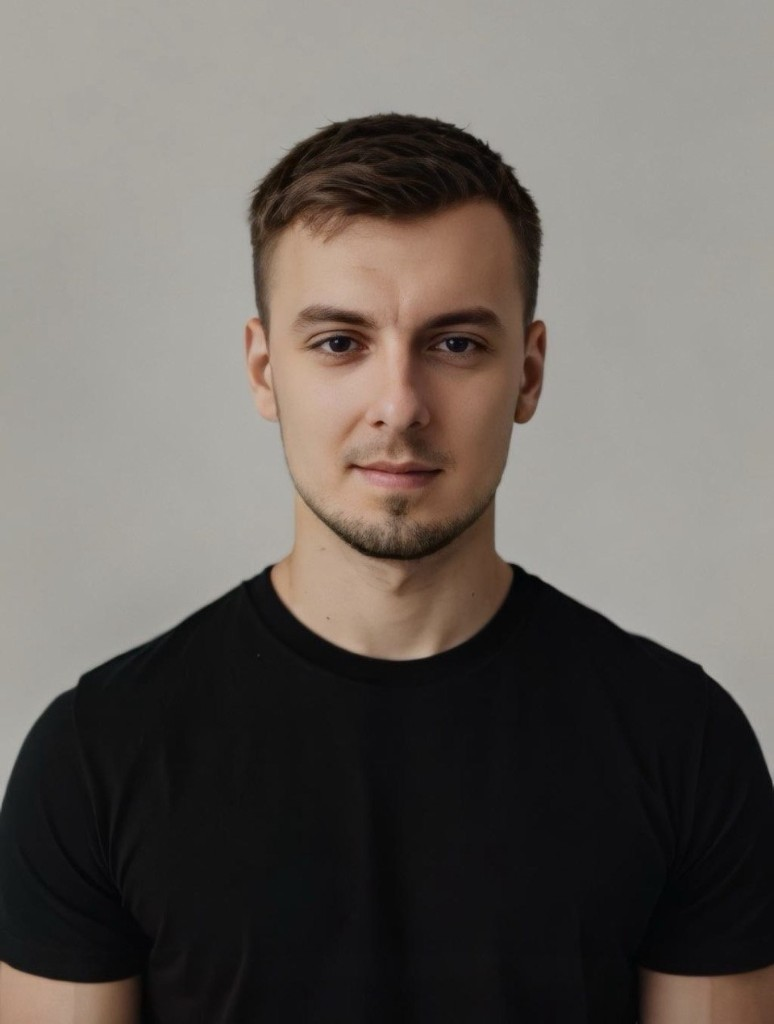
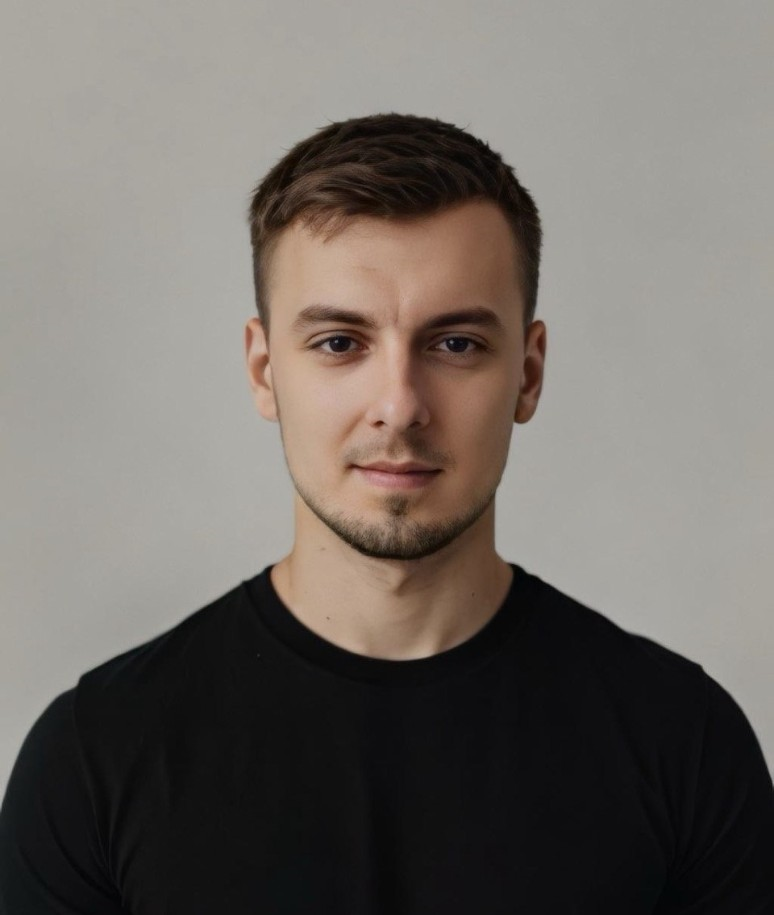
fix profile align issue

Changed region(s): [[0.0, 0.0918, 1.0, 0.8874], [0.8062, 0.918, 1.0, 1.0], [0.0, 0.918, 0.186, 1.0]]

diff --git a/src/data/profile.ts b/src/data/profile.ts
@@ -11,6 +11,7 @@ export const profile = {
     png: '/portfolio/images/profile.png',
     fallback: '/portfolio/images/profile.svg',
     alt: 'Oleksandr Shchur — professional portrait',
+    objectPosition: '50% 22%',
   },
   tagline:
     'Building cloud-native and enterprise solutions with C#/.NET, React, and AWS — focused on meaningful problems and collaborative delivery.',

diff --git a/src/components/sections/Hero.tsx b/src/components/sections/Hero.tsx
@@ -105,6 +105,7 @@ export function Hero() {
                   width={400}
                   height={400}
                   className="h-64 w-64 rounded-[1.75rem] object-cover sm:h-80 sm:w-80"
+                  style={{ objectPosition: profile.photo.objectPosition }}
                   loading="eager"
                   fetchPriority="high"
                   onError={(e) => {
